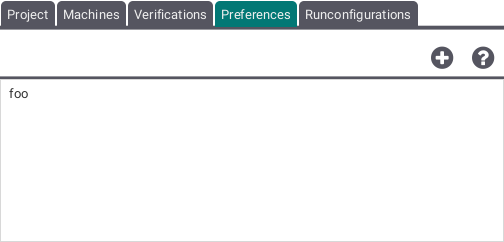
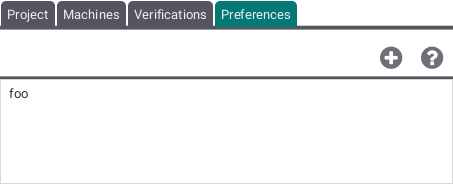
help update

Changed region(s): [[0.0, 0.0, 1.0, 0.163], [0.0, 0.1902, 1.0, 0.4348], [0.0, 0.4891, 0.0618, 0.5435]]

diff --git a/src/main/resources/help/Project.md b/src/main/resources/help/Project.md
@@ -1,3 +1,4 @@
+# Project View
 If no machine or no project has been opened, the Project View will allow you to create a project. If you choose to open a machine without having a project, a default project will be created.
 
 The Project View contains several tabs:
@@ -5,27 +6,27 @@ The Project View contains several tabs:
 * __Machines__, containing machines added to this project
 * __Verifications__, containing the verification status of each machine
 * __Preferences__, containing custom preferences
-* __Run Configurations__, containing machines paired with preferences (each pair has its own entry)
+<!---* __Run Configurations__, containing machines paired with preferences (each pair has its own entry)-->
 
-##Project Tab
+## Project Tab
 
 ![Project Tab](screenshots/Project/Project Tab.png)
 
 This tab shows the name and the description of the current project. Both are either automatically generated by opening a machine or chosen by the user who manually created the project and can be changed by double clicking on each respectively.
 
-##Machines Tab
+## Machines Tab
 
 ![Machines Tab](screenshots/Project/Machines Tab.png)
 
 This tab shows the machines belonging to the project. By using the plus button several machines can be added to the project. By clicking right on a specific machine this machine can be edited or removed from the project.
 
-##Verifications Tab
+## Verifications Tab
 
 ![Verifications Tab](screenshots/Project/Verifications Tab.png)
 
 This tab shows the status of each type of verification run on the machines contained by the project. If no test of a specific verification type has been run, a blue questionmark sign is shown. If the verification type could not recognize any failures, a green check will be displayed. If a test failed, a red x sign will be shown.
 
-##Preferences Tab
+## Preferences Tab
 
 ![Preferences Tab](screenshots/Project/Preferences Tab.png)
 
@@ -35,8 +36,9 @@ This tab allows to add, edit and remove preference settings and shows a list of 
 
 The screenshot above shows the window for adding and editing preferences.
 
-##Run Configurations Tab
+<!---## Run Configurations Tab
 
 ![Runconfigurations Tab](screenshots/Project/Runconfigurations Tab.png)
 
 This tab allows to pair up machines and preferences. The machine running with default preferences will be displayed just by name. Run configurations combining a machine with a custom preference setting are shown as _machinename.preferencename_.
+-->

diff --git a/src/main/resources/help/ProB2UI.md b/src/main/resources/help/ProB2UI.md
@@ -1,11 +1,11 @@
-## The ProB2 JavaFX Main Window
+# The ProB2 JavaFX Main Window
 By default the main window is split into three vertical panes (see below).
 
 * In the left pane, the Operations view , showing the operations whose preconditions and guards are true in this state (the view also uses a blue circular arrow icon when an operation does not change the state);
 * In the middle 
 	* the [State View](Main%20View/State.md), containing the current state of the B machine, listing e.g., the current values of the machine variables,
 	* the [State Errors View](Main%20View/State%20Errors.md), containing possible state errors and
-	* the [Visualisation View](Main%20View/Visualisation.md), containing an visualisation, if provided by the user;
+	* the [Visualisation View](Main%20View/Visualisation.md), containing a visualisation, if provided by the user;
 * In the right pane there are a variety of subviews, which can be activate:
 	* [The History of operations leading to this state (History)](History.md)
 	* [The Project view](Project.md)
@@ -14,7 +14,7 @@ By default the main window is split into three vertical panes (see below).
 
 ![ProB2 JavaFX UI Overview](screenshots/Overview.png)
 
-## The ProB2 JavaFX Main Menu Bar
+# The ProB2 JavaFX Main Menu Bar
 The menu bar contains the various commands to access the features of ProB. It includes the menus
 * File,
 * Edit,

diff --git a/src/main/resources/help/History.md b/src/main/resources/help/History.md
@@ -1,3 +1,5 @@
+# History View
+
 ![History View](screenshots/History.png)
 
 The History View shows a list of already executed operations. The items contained in this list are linked to the State View: When selecting one of these items, State View shows the current and the previous state of the chosen machine.  The chrevron buttons on the left allow to go back and forth in history by one step. The three buttons on the right provide sorting, saving a trace and help.

diff --git a/src/main/resources/help/Statistics.md b/src/main/resources/help/Statistics.md
@@ -1,3 +1,5 @@
+# Statistics View
+
 The Statistics View provides some state and transition data: The main view shows the quantity of processed states and total transitions, the extended view shows additional state and transition statistics
 
 ![Statistics](screenshots/Statistics.png)

diff --git a/src/main/resources/help/Verification.md b/src/main/resources/help/Verification.md
@@ -1,4 +1,5 @@
-The Verification View provides 3 different methods to test a machine:
+# Verification View
+The Verification View provides 4 different methods to test a machine:
 
 * Modelchecking,
 * LTL Verifications,
